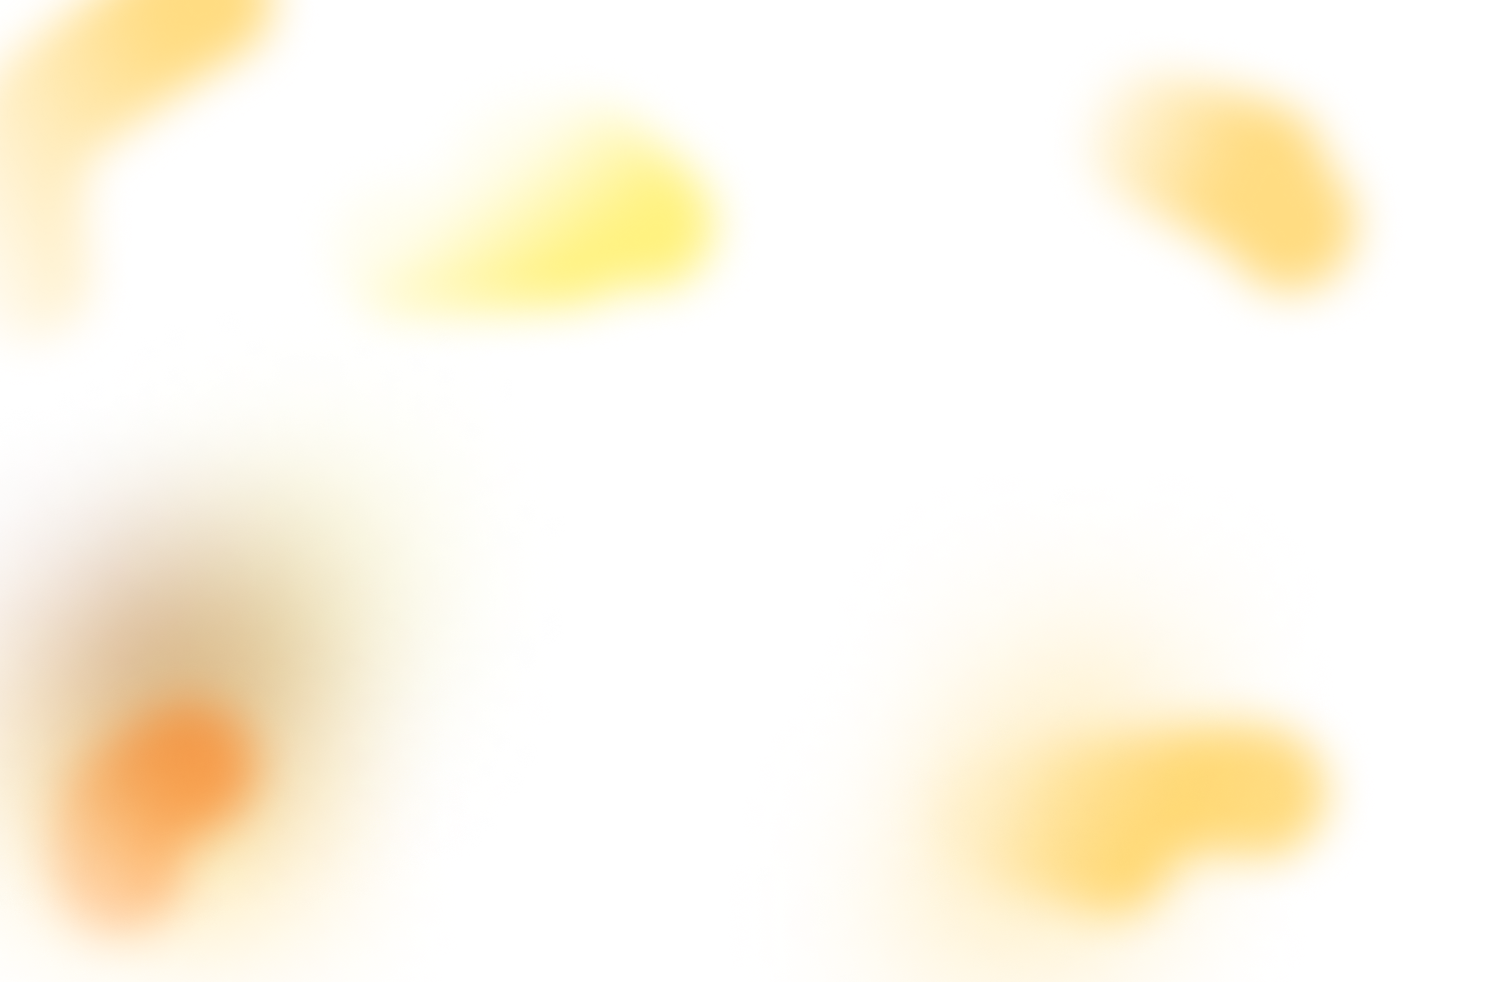
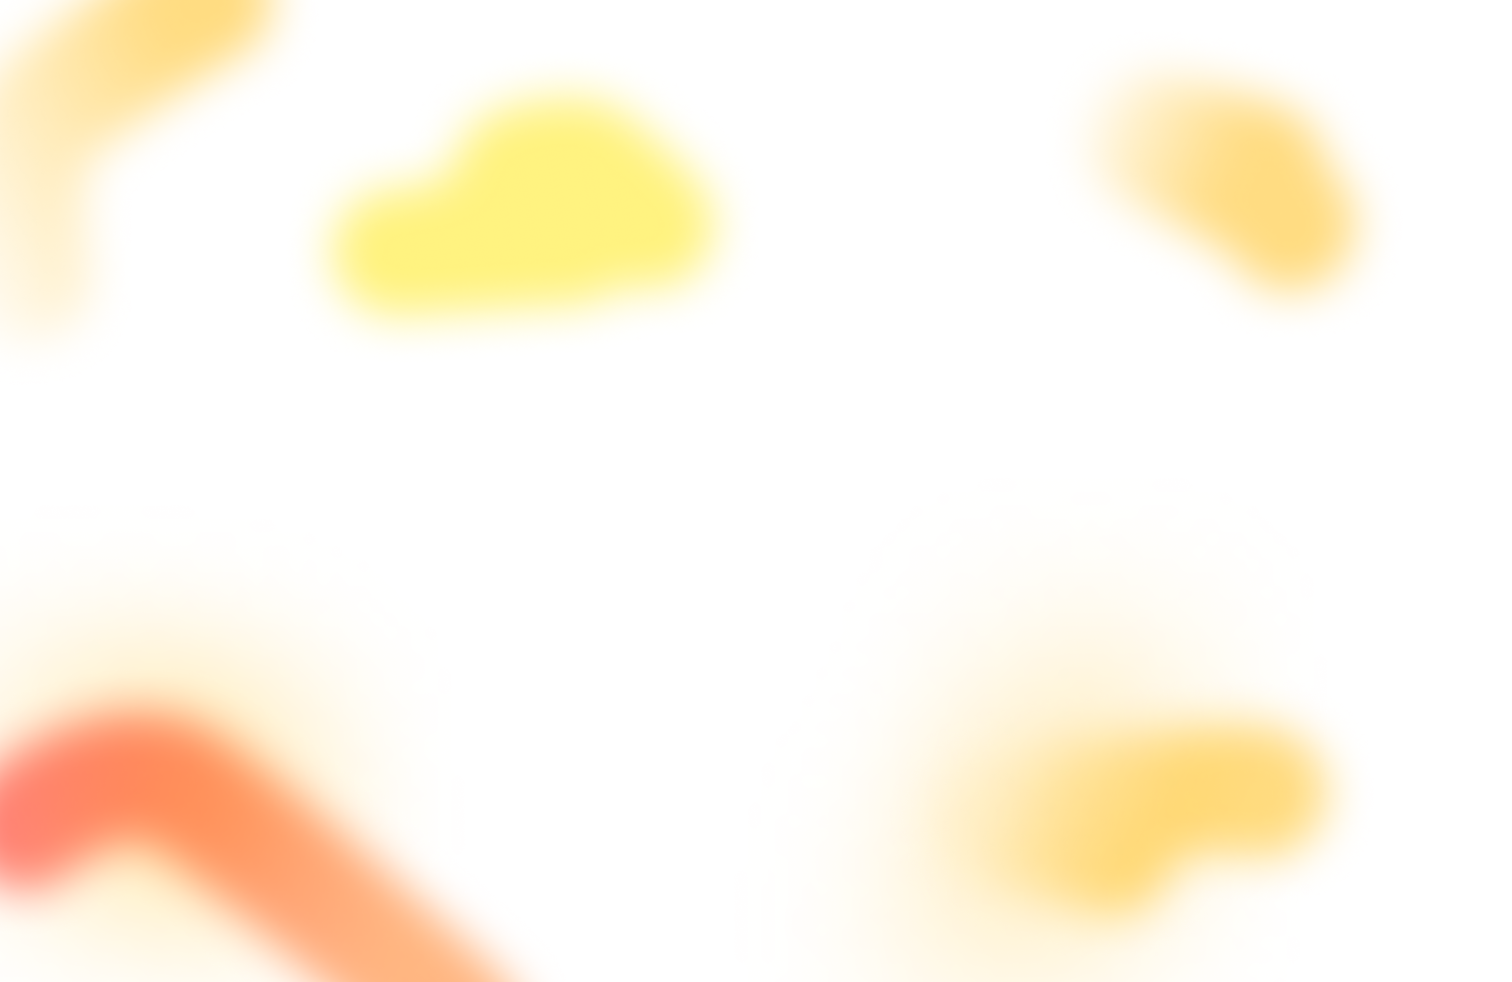
with tex

Changed region(s): [[0.0, 0.4582, 0.3419, 1.0], [0.1865, 0.0611, 0.4352, 0.336]]

diff --git a/src/components/mosaic-bg.ts b/src/components/mosaic-bg.ts
@@ -2,7 +2,7 @@ import { shaderMaterial } from '@react-three/drei';
 import type { ReactThreeFiber } from '@react-three/fiber';
 import { extend } from '@react-three/fiber';
 import type * as THREE from 'three';
-import { Vector2, Vector3 } from 'three';
+import { Texture, Vector2, Vector3 } from 'three';
 
 export type MosaicProps = {
     resolution: Vector2;
@@ -17,6 +17,7 @@ const MosaicMaterial = shaderMaterial(
         time: 0,
         resolution: new Vector2(1, 1),
         zoom: 1,
+        uTexture: new Texture(),
         xy: new Vector3(1, 1, 1)
     },
     `
@@ -63,6 +64,18 @@ const MosaicMaterial = shaderMaterial(
       return (blendColorDodge(base, blend) * opacity + base * (1.0 - opacity));
     }
 
+    float blendColorBurn(float base, float blend) {
+        return (blend==0.0)?blend:max((1.0-((1.0-base)/blend)),0.0);
+    }
+    
+    vec3 blendColorBurn(vec3 base, vec3 blend) {
+        return vec3(blendColorBurn(base.r,blend.r),blendColorBurn(base.g,blend.g),blendColorBurn(base.b,blend.b));
+    }
+    
+    vec3 blendColorBurn(vec3 base, vec3 blend, float opacity) {
+        return (blendColorBurn(base, blend) * opacity + base * (1.0 - opacity));
+    }
+
     vec3 rgb(int r, int g, int b) {
         return vec3(r, g, b) / 255.0;
     }
@@ -104,11 +117,7 @@ const MosaicMaterial = shaderMaterial(
         vec3 result = vec3(0.0);
         float zoom =  16.;
         vec2 gv = fract(uv * zoom);
-
-        // Get a unique identifier for each tile
         vec2 id = floor(uv * zoom);
-
-    
         for (float y = -1.0; y <= 1.0; y++) {
             for (float x = -1.0; x <= 1.0; x++) {
                 vec2 tileOffset = vec2(x, y);
@@ -157,7 +166,6 @@ const MosaicMaterial = shaderMaterial(
                 ) {
                     result += vec3(0.8, 0.8, 0.8);
                 }
-
             }
         }
 
@@ -194,12 +202,16 @@ const MosaicMaterial = shaderMaterial(
             color *= innerZ;
         }
 
+        if (color.r == 0.) {
+            gl_FragColor = vec4(color, 1.);
+            return;
+        }
 
         vec3 bgColor = texture2D(uTexture, vUv).rgb;
 
-        gl_FragColor = vec4(bgColor, 1.); 
+        gl_FragColor = vec4(bgColor / 4., 1.); 
         // gl_FragColor = vec4(color, 1.);
-        // gl_FragColor = vec4(blendColorDodge(color, bgColor, 0.5), 1.0)); 
+        gl_FragColor = vec4(blendColorBurn(color /1.2, bgColor / 3.), 1.0); 
         // gl_FragColor = vec4(vec3(ouuterZz), 1.0);
     }
   `

diff --git a/src/pages/index.tsx b/src/pages/index.tsx
@@ -1,6 +1,6 @@
 import { Canvas, useFrame, useLoader, useThree } from '@react-three/fiber';
 import { type NextPage } from 'next';
-import { useEffect, useRef } from 'react';
+import { Suspense, useEffect, useRef } from 'react';
 import THREE, { TextureLoader, Vector2, Vector3 } from 'three';
 import '../components/background-material';
 import '../components/mosaic-bg';
@@ -41,22 +41,26 @@ function ShaderPlane() {
 
     const res = new Vector2(width, width);
 
-    const [image] = useLoader(TextureLoader, [
-        'https://images.unsplash.com/photo-1604011092346-0b4346ed714e?ixid=MnwxMjA3fDB8MHxwaG90by1wYWdlfHx8fGVufDB8fHx8&ixlib=rb-1.2.1&auto=format&fit=crop&w=1534&q=80'
-    ]);
-
+    const [image] = useLoader(TextureLoader, ['/lines.png']);
+    console.log(image);
     useFrame((state, delta) => {
         if (ref.current && zoomValue.current) {
             ref.current.time += delta;
             ref.current.resolution = res;
             ref.current.zoom = zoomValue.current;
             ref.current.xy = xyValue.current;
+            if (image) {
+                ref.current.uTexture = image;
+            }
             // if (ref.current.uniforms.canvasTexture?.value) {
             //     ref.current.uniforms.canvasTexture.value.needsUpdate = true;
             // }
         }
     });
 
+    if (!image) {
+        return;
+    }
     return (
         <mesh scale={[width, height, 1]}>
             <planeGeometry />
@@ -68,12 +72,13 @@ function ShaderPlane() {
 const Home: NextPage = () => {
     return (
         <main className=" top-0 h-screen w-screen ">
-            <div className="line absolute top-32 right-32 h-10 w-20 mix-blend-color-dodge"></div>
             <Canvas
                 dpr={[1, 2]}
                 className="e top-0  aspect-square min-h-max min-w-max"
             >
-                <ShaderPlane />
+                <Suspense fallback={null}>
+                    <ShaderPlane />
+                </Suspense>
                 <Stats showPanel={0} className="stats" />
             </Canvas>
             <div className="absolute top-0 z-10 h-screen w-full text-white bg-blend-color-dodge">
